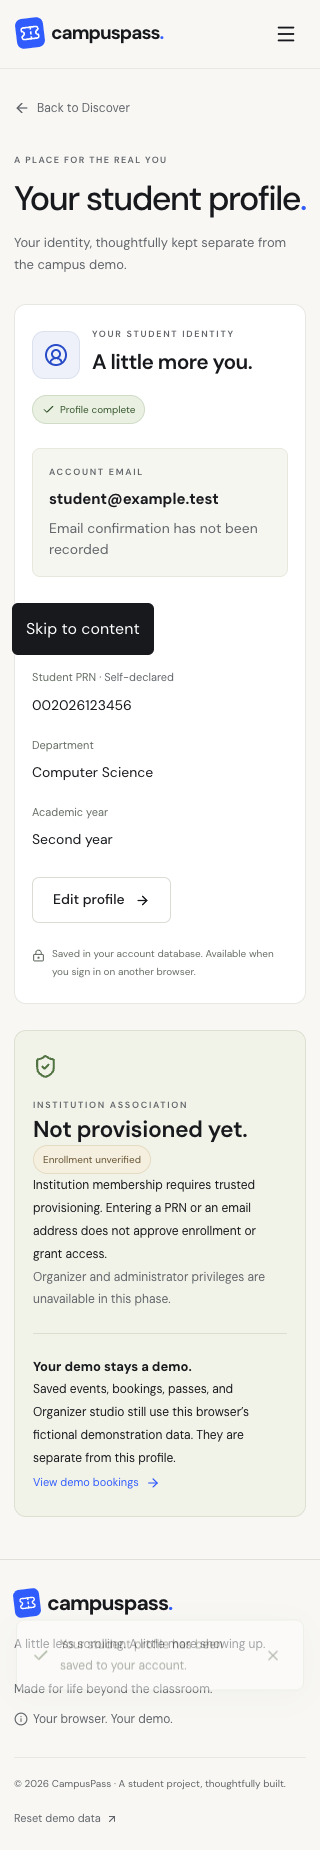
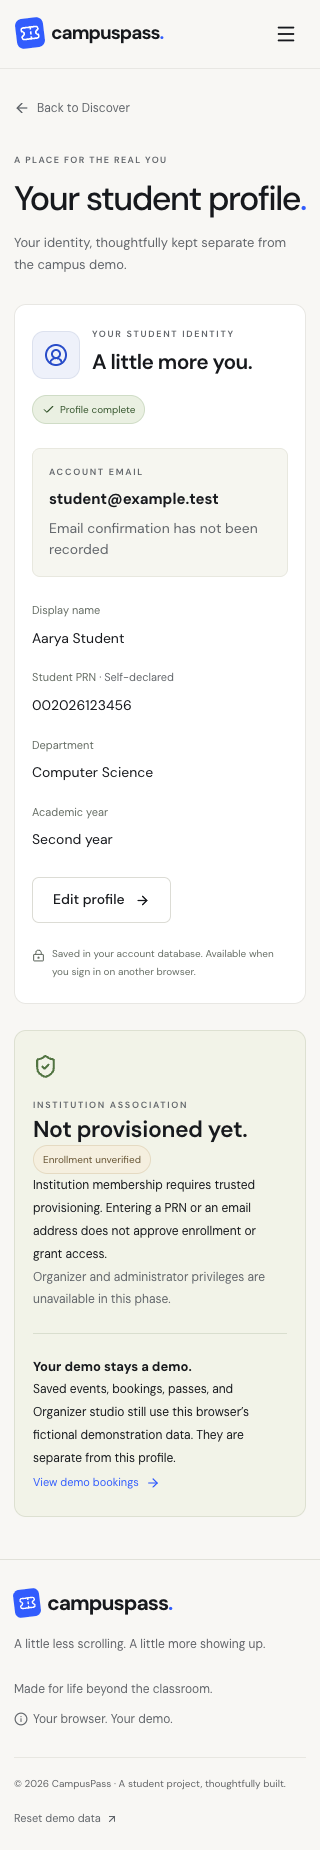
test(profile): capture clean responsive overview evidence after focus checks

diff --git a/e2e/student-profile.spec.ts b/e2e/student-profile.spec.ts
@@ -107,6 +107,10 @@ for (const width of [320, 390, 768, 1024, 1440]) {
     await expect(
       page.getByRole("heading", { name: "A little more you." }),
     ).toBeFocused();
+    // Capture from the document origin: full-page Chromium captures can expose
+    // off-viewport fixed elements when focus has scrolled the page after save.
+    await page.getByRole("button", { name: "Dismiss notification" }).click();
+    await page.evaluate(() => window.scrollTo({ top: 0, behavior: "instant" }));
     await page.screenshot({
       path: `test-results/profile-screenshots/overview-${width}.png`,
       fullPage: true,
